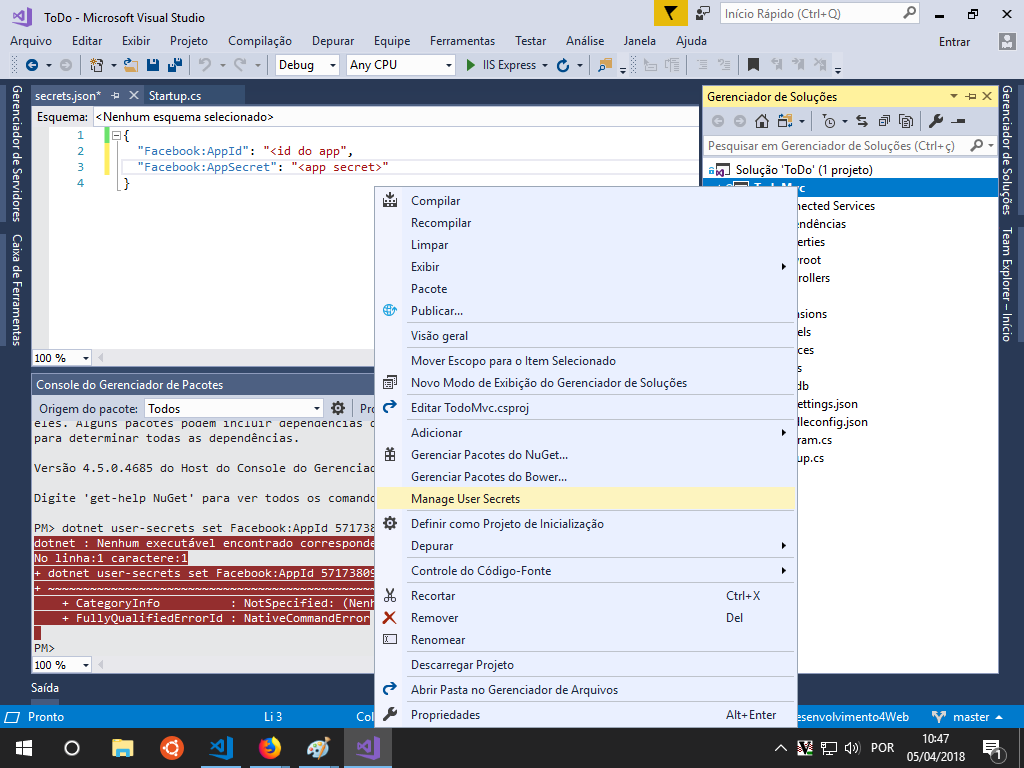
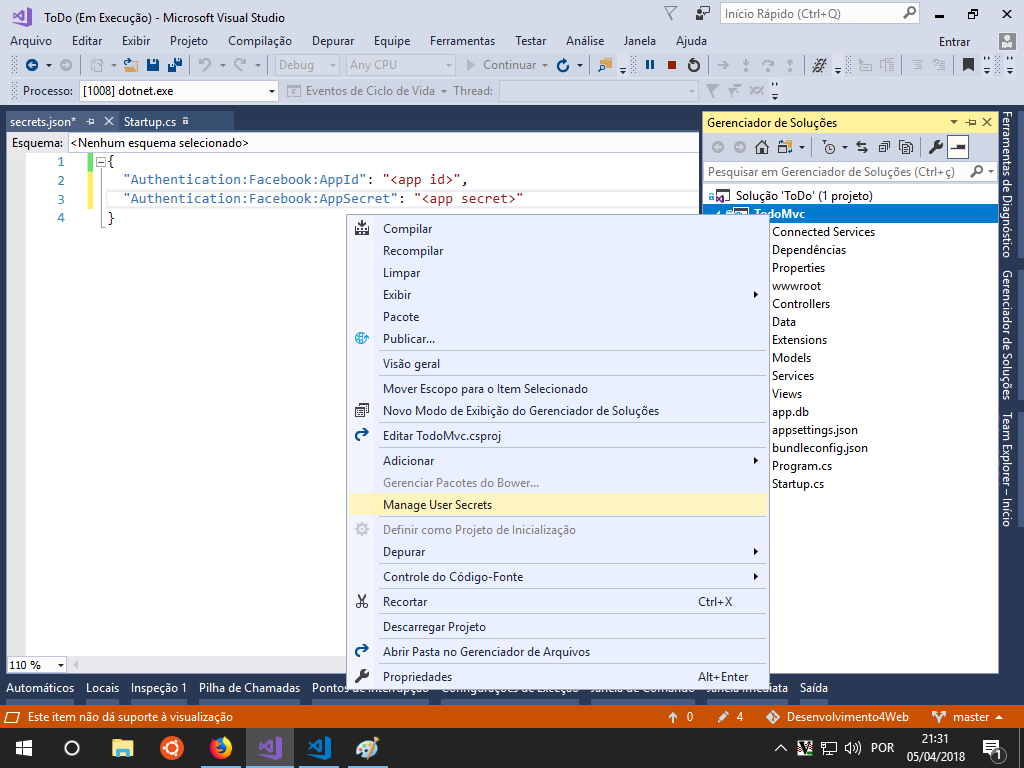
fixed typo

diff --git a/source/ToDo/TodoMvc/Startup.cs b/source/ToDo/TodoMvc/Startup.cs
@@ -46,14 +46,6 @@ namespace TodoMvc
             services.AddScoped<ITodoItemService, ToDoItemService>();
 
             services.AddMvc();
-
-            services
-                .AddAuthentication()
-                .AddFacebook(options =>
-                {
-                    options.AppId = Configuration["Facebook:AppId"];
-                    options.AppSecret = Configuration["Facebook:AppSecret"];
-                });
         }
 
         // This method gets called by the runtime. Use this method to configure the HTTP request pipeline.

diff --git a/seguranca-e-identidade/facebook-login/README.md b/seguranca-e-identidade/facebook-login/README.md
@@ -61,6 +61,8 @@ Vá clicando em Avançar para finalizar a configuração.
 
 Em Configurações / Básico no menu lateral pegue as informações de ID do Aplicativo e a Chave Secreta
 
+![ID e Chave secreta](/Desenvolvimento4Web/seguranca-e-identidade/facebook-login/images/id-secret.png)
+
 Agora editaremos o arquivo `Startup.cs` adicionando o código abaixo dentro do método configure service.
 
 ```csharp
@@ -68,14 +70,14 @@ services
     .AddAuthentication()
     .AddFacebook(options => 
     {
-        options.AppId = Configuration["Facebook:AppId"];
-        options.AppSecret = Configuration["Facebook:AppSecret"];
+        options.AppId = Configuration["Authentication:Facebook:AppId"];
+        options.AppSecret = Configuration["Authentication:Facebook:AppSecret"];
     });
 ```
 
 Não armazenaremos as informações do aplicativo em nosso arquivo `appsetting.js`, pois não é o tipo de informações que queremos deixar a mostra em um github por exemplo.
 
-### Secrets manager
+### [Gerenciador de segredo](https://docs.microsoft.com/pt-br/aspnet/core/security/app-secrets?tabs=visual-studio#secret-manager)
 
 Para armazenar informações sensíveis como senhas devemos utilizar o comando [`dotnet user-secrets`](https://docs.microsoft.com/pt-br/aspnet/core/security/app-secrets?tabs=visual-studio)
 

diff --git a/seguranca-e-identidade/README.md b/seguranca-e-identidade/README.md
@@ -29,11 +29,15 @@ Utilizando Identy vamos:
 > Os nomes podem causar confusão, mas são coisas distintas
 > 
 > ### Authentication
+>
 > Trata de informações do usuário, se está logado, etc.
+>
 > `Eu conheço esse usuário?`
 >
 > ### Authorization
+>
 > Após a autenticação verifica se o usuário tem acesso ào recurso solicitado
+>
 > `Esse usuário tem permissão para fazer esta ação?`
 
 
@@ -76,14 +80,16 @@ O próprio template já implementa login e senha por padrão.
 
 Para criação de senhas já possui políticas de segurança
 
-* The Password must be at least 6 and at max 100 characters long.
 * De 6-100 caracteres
-* Pelo menos um caracter não-alfanumérico
+* Pelo menos um caracter número
+* Pelo menos um caracter especial
 * Pelo menos uma minúscula ('a'-'z').
 * Pelo menos uma maiúscula ('A'-'Z').
 
-> Ex.:
-> teste@test.com
-> !23a456A
+> Exemplo:
+>
+> usuário: teste@test.com
+>
+> password: !23a456A
 
 [Realizar login com o Facebook](/Desenvolvimento4Web/seguranca-e-identidade/facebook-login)
